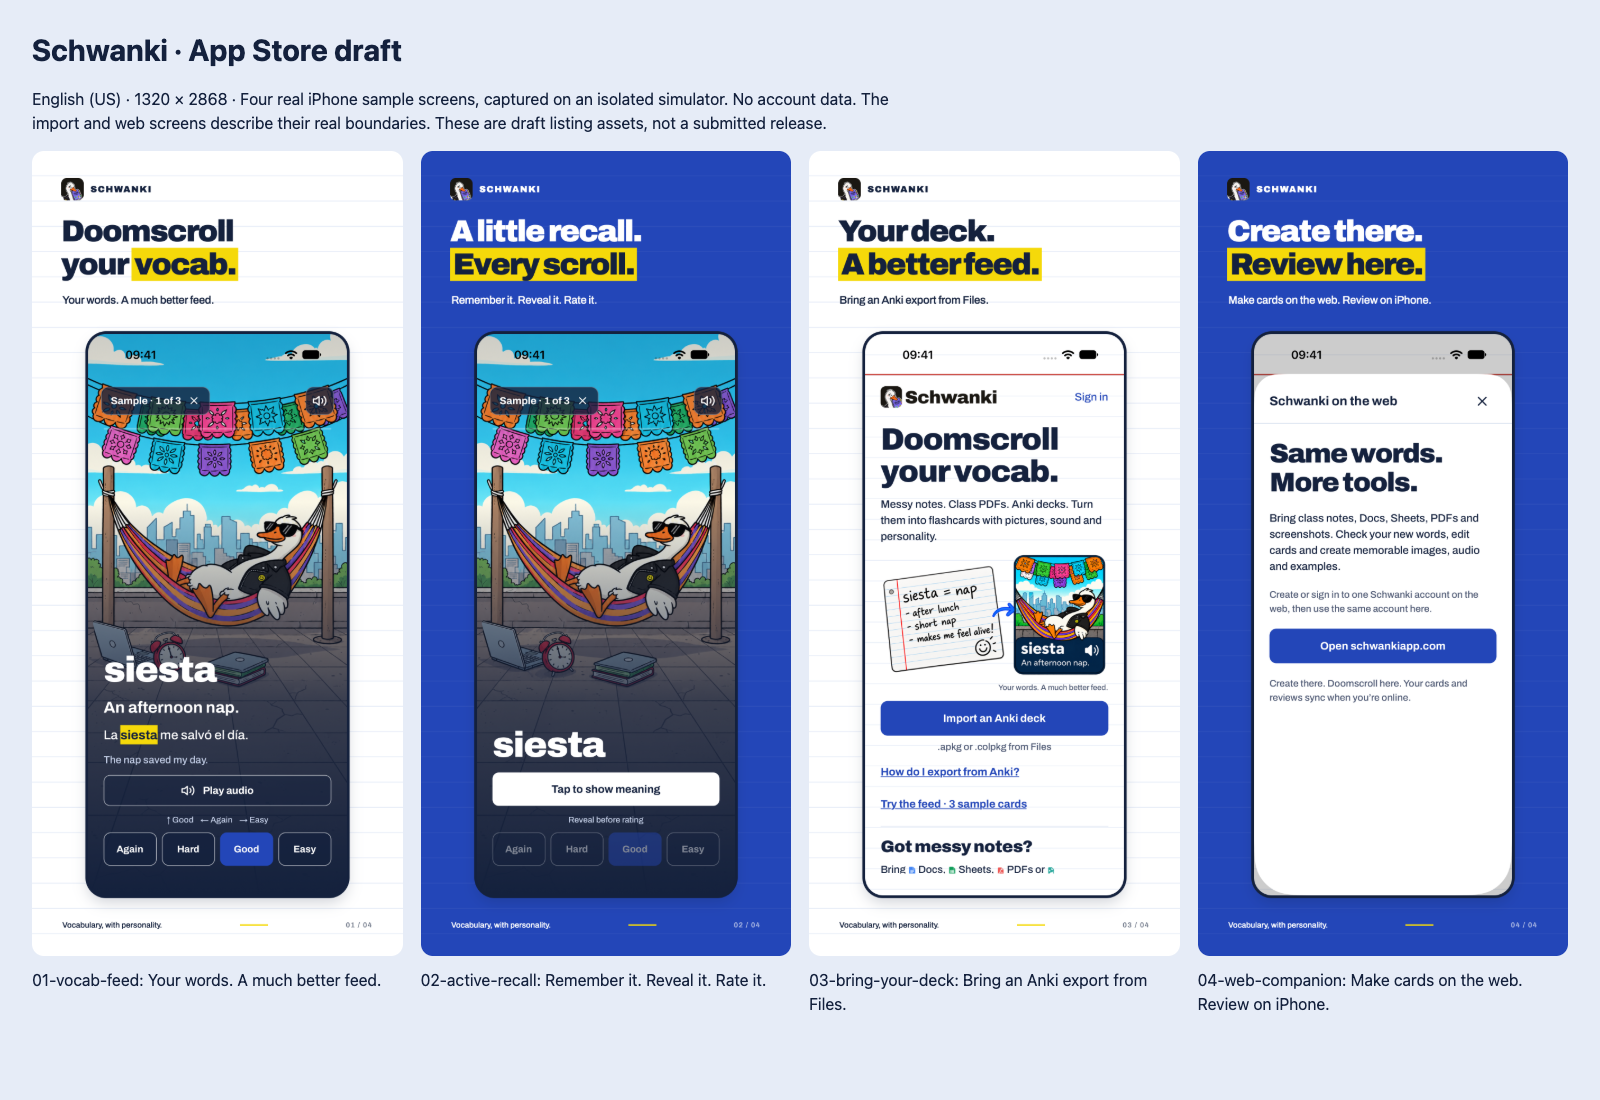
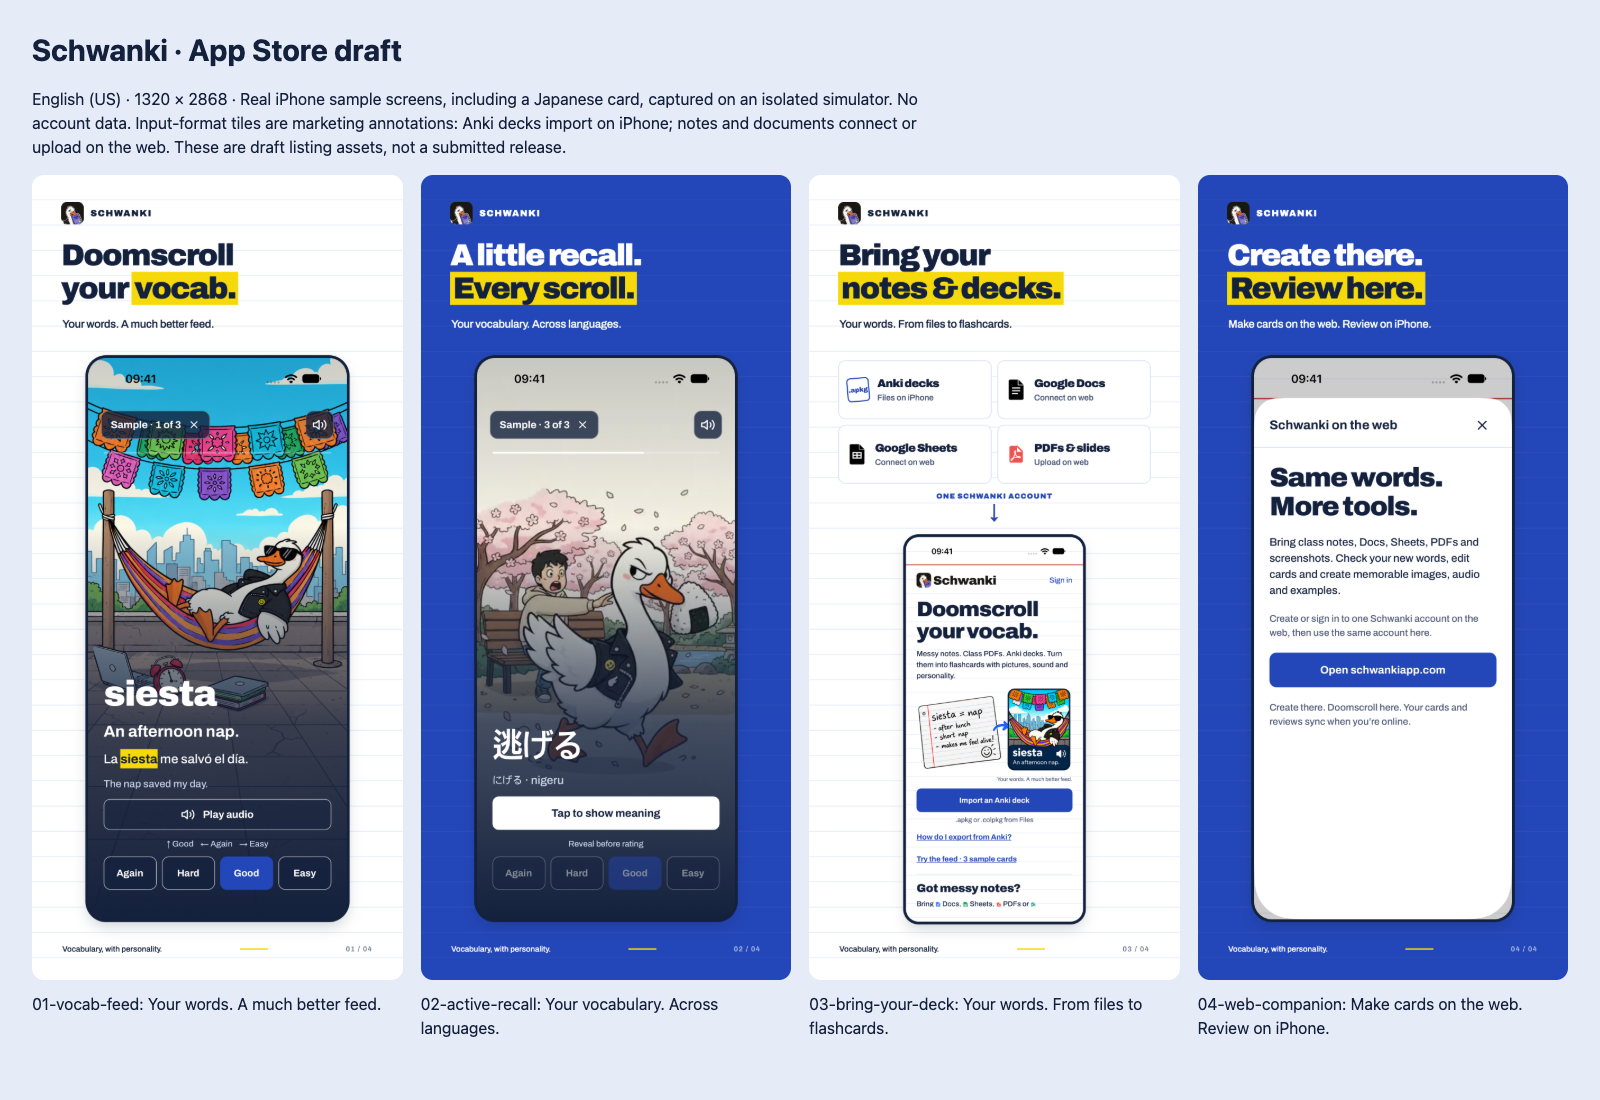
docs(ios): show Japanese sample and notes-to-deck import routes

Changed region(s): [[0.0, 0.0618, 1.0, 0.9582]]

diff --git a/apps/ios/app-store/screenshots/index.html b/apps/ios/app-store/screenshots/index.html
@@ -1,1 +1,1 @@
-<!doctype html><html lang="en"><meta charset="utf-8"><title>Schwanki — App Store screenshot draft</title><style>body{font:16px system-ui;background:#e6ecf7;color:#14213d;margin:32px}h1{font-size:30px}p{max-width:900px;line-height:1.5}.grid{display:grid;grid-template-columns:repeat(4,minmax(0,1fr));gap:18px}figure{margin:0}img{width:100%;display:block;border-radius:12px}figcaption{padding:12px 0;line-height:1.5}a{color:inherit}</style><h1>Schwanki · App Store draft</h1><p>English (US) · 1320 × 2868 · Four real iPhone sample screens, captured on an isolated simulator. No account data. The import and web screens describe their real boundaries. These are draft listing assets, not a submitted release.</p><div class="grid"><figure><a href="iphone-69/01-vocab-feed.png"><img src="iphone-69/01-vocab-feed.png" alt="Your words. A much better feed."></a><figcaption>01-vocab-feed: Your words. A much better feed.</figcaption></figure><figure><a href="iphone-69/02-active-recall.png"><img src="iphone-69/02-active-recall.png" alt="Remember it. Reveal it. Rate it."></a><figcaption>02-active-recall: Remember it. Reveal it. Rate it.</figcaption></figure><figure><a href="iphone-69/03-bring-your-deck.png"><img src="iphone-69/03-bring-your-deck.png" alt="Bring an Anki export from Files."></a><figcaption>03-bring-your-deck: Bring an Anki export from Files.</figcaption></figure><figure><a href="iphone-69/04-web-companion.png"><img src="iphone-69/04-web-companion.png" alt="Make cards on the web. Review on iPhone."></a><figcaption>04-web-companion: Make cards on the web. Review on iPhone.</figcaption></figure></div></html>
+<!doctype html><html lang="en"><meta charset="utf-8"><title>Schwanki — App Store screenshot draft</title><style>body{font:16px system-ui;background:#e6ecf7;color:#14213d;margin:32px}h1{font-size:30px}p{max-width:900px;line-height:1.5}.grid{display:grid;grid-template-columns:repeat(4,minmax(0,1fr));gap:18px}figure{margin:0}img{width:100%;display:block;border-radius:12px}figcaption{padding:12px 0;line-height:1.5}a{color:inherit}</style><h1>Schwanki · App Store draft</h1><p>English (US) · 1320 × 2868 · Real iPhone sample screens, including a Japanese card, captured on an isolated simulator. No account data. Input-format tiles are marketing annotations: Anki decks import on iPhone; notes and documents connect or upload on the web. These are draft listing assets, not a submitted release.</p><div class="grid"><figure><a href="iphone-69/01-vocab-feed.png"><img src="iphone-69/01-vocab-feed.png" alt="Your words. A much better feed."></a><figcaption>01-vocab-feed: Your words. A much better feed.</figcaption></figure><figure><a href="iphone-69/02-active-recall.png"><img src="iphone-69/02-active-recall.png" alt="Your vocabulary. Across languages."></a><figcaption>02-active-recall: Your vocabulary. Across languages.</figcaption></figure><figure><a href="iphone-69/03-bring-your-deck.png"><img src="iphone-69/03-bring-your-deck.png" alt="Your words. From files to flashcards."></a><figcaption>03-bring-your-deck: Your words. From files to flashcards.</figcaption></figure><figure><a href="iphone-69/04-web-companion.png"><img src="iphone-69/04-web-companion.png" alt="Make cards on the web. Review on iPhone."></a><figcaption>04-web-companion: Make cards on the web. Review on iPhone.</figcaption></figure></div></html>

diff --git a/apps/ios/app-store/research/visual-audit.md b/apps/ios/app-store/research/visual-audit.md
@@ -17,4 +17,4 @@ October 31, 2026, US storefront. **Verified:** inspected the public icon and fir
 
 **Medium-confidence design decision:** retain Schwanki's existing white notebook paper, navy type, royal blue and yellow highlight, with its approved goose artwork inside actual app captures. Four images tell the sequence: visual vocabulary feed → active recall → import entry → web creation boundary. This is an initial conversion hypothesis, not a measured advantage or evidence that no competing app offers similar features.
 
-The first two images use the same bundled sample card to demonstrate its concealed and revealed states. They are genuine app captures, not fabricated account content. The import slide shows the implemented entry point and is conditional on release acceptance of native import; it is not a screenshot of a completed import. No before/after learning result, user review, fabricated metric or guaranteed learning outcome appears in these assets.
+The first image shows the revealed Spanish sample; the second shows the existing Japanese sample with its reading and illustration. Both are genuine app captures, not fabricated account content. The import slide adds clearly labeled marketing annotations for supported input routes: Anki exports from Files on iPhone, Google Docs/Sheets connections on the web, and PDF/slide uploads on the web. These surround the real native import entry; they are not fabricated app controls or a screenshot of a completed import. Native import remains conditional on release acceptance. No before/after learning result, user review, fabricated metric or guaranteed learning outcome appears in these assets.

diff --git a/apps/ios/app-store/README.md b/apps/ios/app-store/README.md
@@ -25,7 +25,7 @@ Prepared October 31, 2026. **Do not submit for review or publish.**
 - `screenshots/iphone-69/`: 1320 × 2868 opaque PNG listing assets, in upload order.
 - `screenshots/raw/`: unedited captures of the real native sample app on an isolated simulator, 1206 × 2622. No private card/deck/account content.
 
-All four screenshot uploads completed in the remote draft. The CLI's `IPHONE_69` alias maps to Apple's `APP_IPHONE_67` screenshot set; the accepted dimensions were checked against its current size catalog. App Store Connect also visibly displayed all four images as existing assets.
+All four screenshot uploads completed in the remote draft. Screenshot 2 uses the existing Japanese sample; screenshot 3 illustrates the supported input routes with iPhone/web labels and the actual native import entry. The CLI's `IPHONE_69` alias maps to Apple's `APP_IPHONE_67` screenshot set; the accepted dimensions were checked against its current size catalog. App Store Connect also visibly displayed all four images as existing assets.
 
 The copy distinguishes the iPhone review/import companion from the web creation tools, describes offline access as cached content, and states the native import cap. The existing privacy page contains the published support address and is the current support URL; a dedicated support page would be clearer before launch.
 
